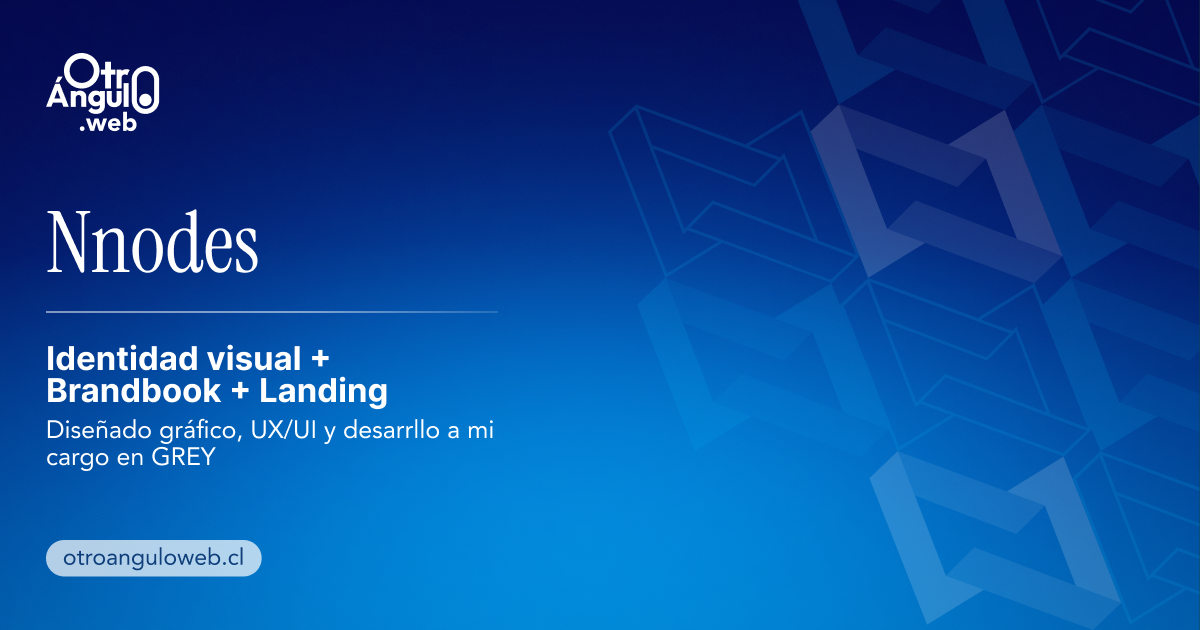
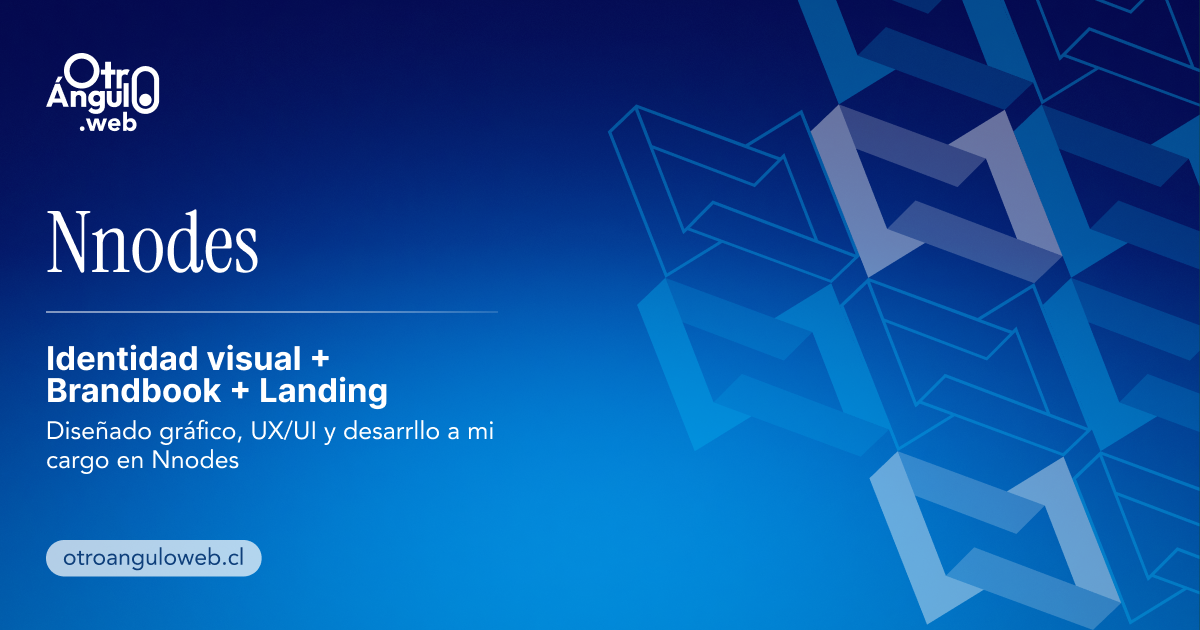
Fix: reemplaza og-nnodes.png (había typo visible) + cache-bust
El OG previo tenía un error en el copy. Reemplaza el PNG por la
versión corregida y añade ?v=2 a og:image y twitter:image para
que Discord/WhatsApp y otros scrapers con cache agresiva lo
re-descarguen.

diff --git a/proyectos/nnodes.html b/proyectos/nnodes.html
@@ -23,7 +23,7 @@
       content="Identidad de marca y landing para Nnodes, consultora de desarrollo de software a medida. Sistema visual basado en nodos y conexiones, con brandbook completo y bajada digital."
       property="og:description"
     />
-    <meta content="https://otroanguloweb.cl/images/og/og-nnodes.png" property="og:image" />
+    <meta content="https://otroanguloweb.cl/images/og/og-nnodes.png?v=2" property="og:image" />
     <meta content="Nnodes · Identidad visual + brandbook y landing – Erika Pinedo" property="twitter:title" />
     <meta
       content="Identidad de marca y landing para Nnodes, consultora de desarrollo de software a medida. Sistema visual basado en nodos y conexiones, con brandbook completo y bajada digital."
@@ -36,7 +36,7 @@
     <meta property="og:image:width" content="1200" />
     <meta property="og:image:height" content="630" />
     <meta content="summary_large_image" name="twitter:card" />
-    <meta name="twitter:image" content="https://otroanguloweb.cl/images/og/og-nnodes.png" />
+    <meta name="twitter:image" content="https://otroanguloweb.cl/images/og/og-nnodes.png?v=2" />
     <meta content="width=device-width, initial-scale=1" name="viewport" />
     <meta name="robots" content="index, follow" />
     <link href="../assets/css/main.min.css" rel="stylesheet" type="text/css" />
